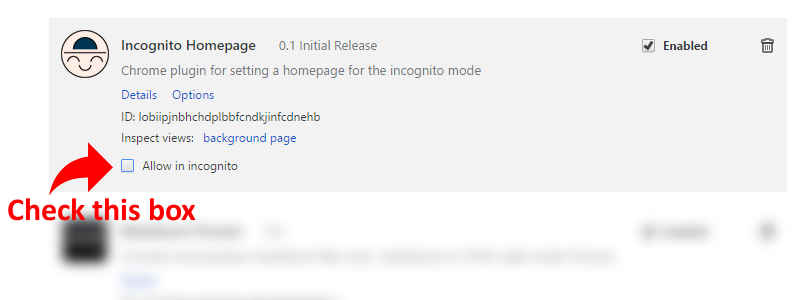
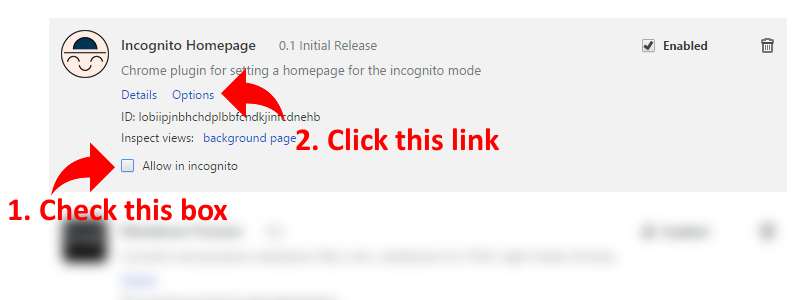
Updated guide page to account for that fact that it closes midway

diff --git a/guide.html b/guide.html
@@ -12,38 +12,23 @@
       <h1>Thank you for installing Incognito Homepage!</h1>
       <h3>You are so close to taking full advantage of this extension:</h3>
       <div class="panel panel-info">
-        <div class="panel-heading">
-          Step 1. Enable Extension
-        </div>
         <div class="panel-body">
           <p>
-            First, go to the Chrome Extensions page, and allow this extension to be run in incognito mode.<br>
-            <strong>
-              If this step is not done, this extension won't be able to function!
-              Such tragedy!
-            </strong>
+            <ol>
+            <li>
+              First, go to the Chrome Extensions page, and allow this extension to be run in incognito mode.<br>
+              <strong>
+                If this step is not done, this extension won't be able to function! Such tragedy!
+              </strong><br>
+            </li>
+            <li>Then you can configure the extension by going to the Options page.</li>
           </p>
           <p>
             <img src="images/instruction_incognito.png" alt="Extensions Page Screenshot">
           </p>
           <p>
             <button type="button" id="extensions_button" class="btn btn-primary">
-              Take me there!
-            </button>
-          </p>
-        </div>
-      </div>
-      <div class="panel panel-info">
-        <div class="panel-heading">
-          Step 2. Configure Extension
-        </div>
-        <div class="panel-body">
-          <p>
-            You can also explore the options for this extension to customize it to your liking.
-          </p>
-          <p>
-            <button type="button" id="options_button" class="btn btn-primary">
-              Take me there!
+              Okay, Take me to Extensions page!
             </button>
           </p>
         </div>

diff --git a/css/style.css b/css/style.css
@@ -50,3 +50,9 @@
 .panel ul {
   padding-left: 20px;
 }
+
+/* Guide page */
+
+.panel li + li {
+  padding-top: 15px;
+}
